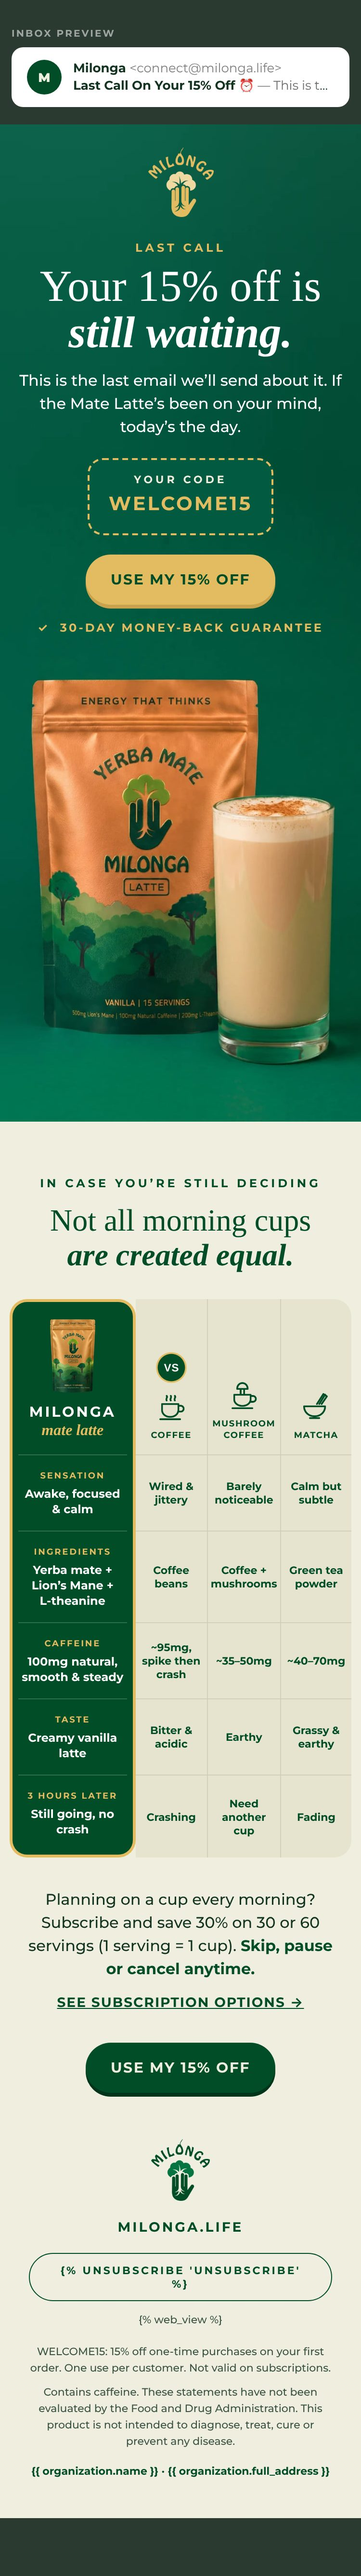
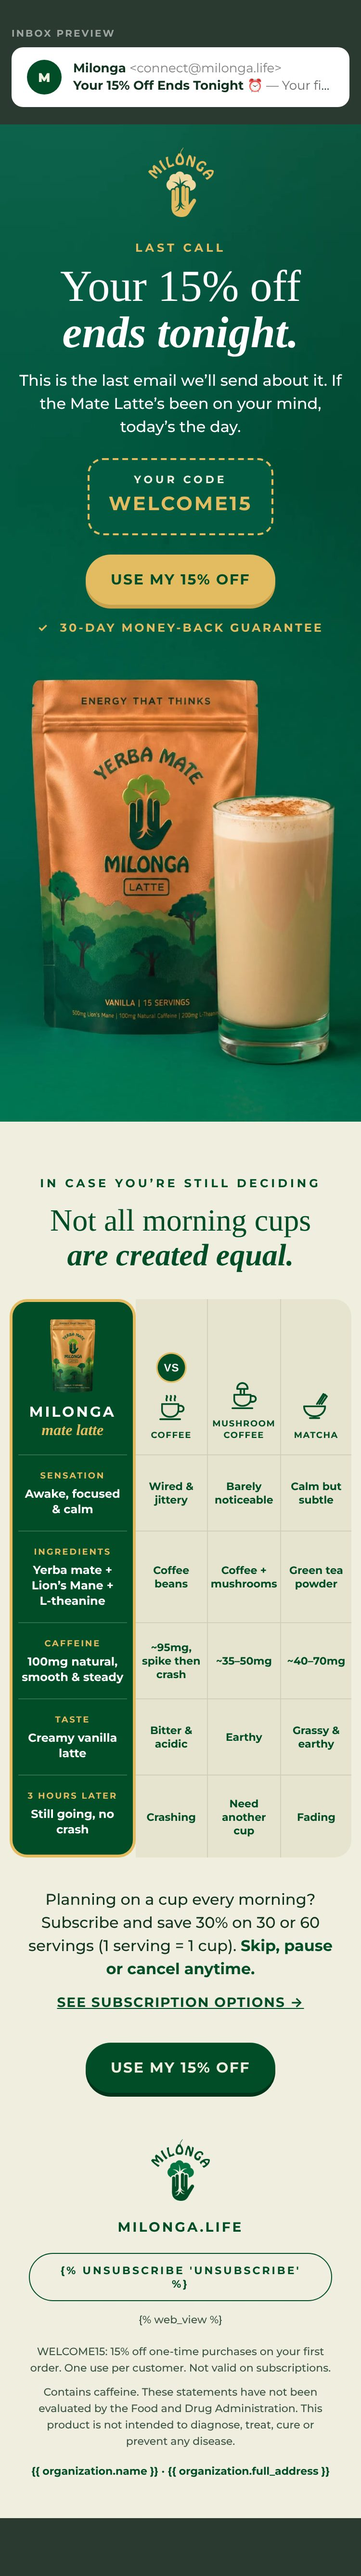
Welcome flow E3: headline and subject 'Your 15% off ends tonight' on WELCOME15
Claude-Session: https://claude.ai/code/session_01NhEtXPnfeCJfN73SqBkUZ5

Changed region(s): [[0.1227, 0.0932, 0.8893, 0.1554]]

diff --git a/email-ds/refine/welcome-e3.html b/email-ds/refine/welcome-e3.html
@@ -11,11 +11,11 @@ body{margin:0;background:#2B3A31;padding:28px 0 60px}
 </style></head><body>
 <div class="inbox"><div class="lab">Inbox preview</div><div class="row"><div class="av">M</div>
 <div class="from">Milonga <span>&lt;connect@milonga.life&gt;</span></div>
-<div class="sub"><b>Last Call On Your 15% Off ⏰</b> <span>&mdash; This is the last time we’ll bring it up. Your first cup is still 15% off.</span></div></div></div>
+<div class="sub"><b>Your 15% Off Ends Tonight ⏰</b> <span>&mdash; Your first cup is still 15% off with WELCOME15. Last call.</span></div></div></div>
 <!--
-  WELCOME FLOW · EMAIL 3 · "Last Call On Your 15% Off ⏰"
-  Preview text: This is the last time we’ll bring it up. Your first cup is still 15% off.
-  Send: day 3 after signup. WELCOME15 has no end date, so nothing here claims one.
+  WELCOME FLOW · EMAIL 3 · "Your 15% Off Ends Tonight ⏰"
+  Preview text: Your first cup is still 15% off with WELCOME15. Last call.
+  Send: day 3 after signup. Headline “ends tonight” on WELCOME15 per Bernat (2026-11-07).
   GENERATED by scripts/make-welcome-e3.mjs. Edit the script, not this file.
   Paste the whole file into one Klaviyo HTML block.
 -->
@@ -61,8 +61,8 @@ body{margin:0;background:#2B3A31;padding:28px 0 60px}
 <div class="hero-in" style="padding:32px 40px 0;font-family:'Montserrat','Helvetica Neue',Helvetica,Arial,sans-serif;text-align:center;">
 <a href="https://milonga.life/?utm_source=klaviyo&amp;utm_medium=email&amp;utm_campaign=welcome_mystery_offer&amp;utm_content=e3_logo" target="_blank"><img class="hero-logo" src="../exports/klaviyo/welcome-e3/img/logo-gold.png" width="76" height="80" alt="Milonga" style="display:block;margin:0 auto;width:76px;height:80px;border:0;"></a>
 <div style="padding-top:24px;font-size:12px;line-height:16px;font-weight:700;letter-spacing:3px;text-transform:uppercase;color:#E3BC62;">Last call</div>
-<div class="h-hero" style="padding-top:8px;font-family:'Times New Roman',Times,Georgia,serif;font-size:52px;line-height:54px;font-weight:400;color:#FFFFFF;">Your 15% off is</div>
-<div class="h-hero" style="font-family:'Times New Roman',Times,Georgia,serif;font-size:52px;line-height:56px;font-weight:700;font-style:italic;color:#FFFFFF;">still waiting.</div>
+<div class="h-hero" style="padding-top:8px;font-family:'Times New Roman',Times,Georgia,serif;font-size:52px;line-height:54px;font-weight:400;color:#FFFFFF;">Your 15% off</div>
+<div class="h-hero" style="font-family:'Times New Roman',Times,Georgia,serif;font-size:52px;line-height:56px;font-weight:700;font-style:italic;color:#FFFFFF;">ends tonight.</div>
 <div style="padding:14px 0 20px;font-size:16px;line-height:24px;font-weight:500;color:#FFFFFF;">This is the last email we&rsquo;ll send about it. If the Mate Latte&rsquo;s been on your mind, <span style="white-space:nowrap;">today&rsquo;s the day.</span></div>
 <table role="presentation" cellpadding="0" cellspacing="0" border="0" align="center" style="margin:0 auto;border-collapse:separate;"><tr>
 <td class="code-tag" align="center" bgcolor="#025A41" style="background-color:#025A41;border:2px dashed #E3BC62;border-radius:16px;padding:12px 32px 14px;font-family:'Montserrat','Helvetica Neue',Helvetica,Arial,sans-serif;">

diff --git a/email-ds/exports/klaviyo/welcome-e3/welcome-e3.html b/email-ds/exports/klaviyo/welcome-e3/welcome-e3.html
@@ -1,7 +1,7 @@
 <!--
-  WELCOME FLOW · EMAIL 3 · "Last Call On Your 15% Off ⏰"
-  Preview text: This is the last time we’ll bring it up. Your first cup is still 15% off.
-  Send: day 3 after signup. WELCOME15 has no end date, so nothing here claims one.
+  WELCOME FLOW · EMAIL 3 · "Your 15% Off Ends Tonight ⏰"
+  Preview text: Your first cup is still 15% off with WELCOME15. Last call.
+  Send: day 3 after signup. Headline “ends tonight” on WELCOME15 per Bernat (2026-11-07).
   GENERATED by scripts/make-welcome-e3.mjs. Edit the script, not this file.
   Paste the whole file into one Klaviyo HTML block.
 -->
@@ -47,8 +47,8 @@
 <div class="hero-in" style="padding:32px 40px 0;font-family:'Montserrat','Helvetica Neue',Helvetica,Arial,sans-serif;text-align:center;">
 <a href="https://milonga.life/?utm_source=klaviyo&amp;utm_medium=email&amp;utm_campaign=welcome_mystery_offer&amp;utm_content=e3_logo" target="_blank"><img class="hero-logo" src="https://cdn.klaviyomail.com/company/TwvSnK/images/354b4f7b-4dc1-4f2e-bcd3-f48afc9dd310.png" width="76" height="80" alt="Milonga" style="display:block;margin:0 auto;width:76px;height:80px;border:0;"></a>
 <div style="padding-top:24px;font-size:12px;line-height:16px;font-weight:700;letter-spacing:3px;text-transform:uppercase;color:#E3BC62;">Last call</div>
-<div class="h-hero" style="padding-top:8px;font-family:'Times New Roman',Times,Georgia,serif;font-size:52px;line-height:54px;font-weight:400;color:#FFFFFF;">Your 15% off is</div>
-<div class="h-hero" style="font-family:'Times New Roman',Times,Georgia,serif;font-size:52px;line-height:56px;font-weight:700;font-style:italic;color:#FFFFFF;">still waiting.</div>
+<div class="h-hero" style="padding-top:8px;font-family:'Times New Roman',Times,Georgia,serif;font-size:52px;line-height:54px;font-weight:400;color:#FFFFFF;">Your 15% off</div>
+<div class="h-hero" style="font-family:'Times New Roman',Times,Georgia,serif;font-size:52px;line-height:56px;font-weight:700;font-style:italic;color:#FFFFFF;">ends tonight.</div>
 <div style="padding:14px 0 20px;font-size:16px;line-height:24px;font-weight:500;color:#FFFFFF;">This is the last email we&rsquo;ll send about it. If the Mate Latte&rsquo;s been on your mind, <span style="white-space:nowrap;">today&rsquo;s the day.</span></div>
 <table role="presentation" cellpadding="0" cellspacing="0" border="0" align="center" style="margin:0 auto;border-collapse:separate;"><tr>
 <td class="code-tag" align="center" bgcolor="#025A41" style="background-color:#025A41;border:2px dashed #E3BC62;border-radius:16px;padding:12px 32px 14px;font-family:'Montserrat','Helvetica Neue',Helvetica,Arial,sans-serif;">
